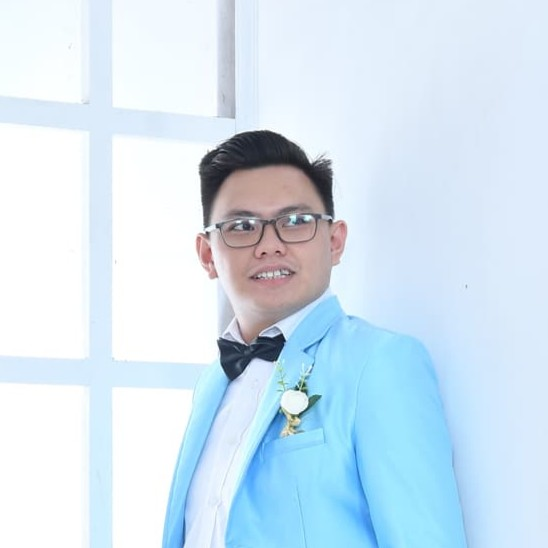
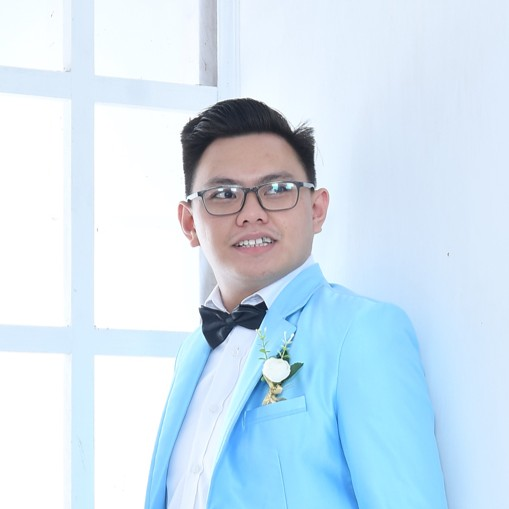
update

Changed region(s): [[0.0, 0.0295, 0.9136, 1.0], [0.1768, 0.0589, 0.2063, 0.1473], [0.3831, 0.943, 0.4126, 1.0]]

diff --git a/index.html b/index.html
@@ -30,7 +30,7 @@
 <body>
 
   <section id="hero"
-    class="hero w-100 h-100 p-3 mx-auto text-center d-flex justify-content-center align-items-center text-black">
+    class="hero w-100 h-100 p-3 mx-auto text-center d-flex justify-content-center align-items-center text-white">
     <main>
       <h4>To <span>Mr./Mrs./Brother/Sister, </span></h4>
       <h1>Geo & Glay</h1>
@@ -380,7 +380,7 @@
     <div class="container">
       <div class="row">
         <div class="col text-center">
-          <small class="block">&copy; 2023 Giiro Wedding Organize. All Rights Reserved.</small>
+
           <small class="block">Design by <a href="https://instagram.com/geovannybolang">@geovannybolang</a>.</small>
 
           <ul class="mt-3">

diff --git a/style.css b/style.css
@@ -33,7 +33,6 @@ body {
 .hero h4,
 .hero p {
   text-shadow: var(--shadow);
-  background-color: ;
 }
 
 .hero h1 {
@@ -493,4 +492,10 @@ footer li {
   .timeline li .timeline-panel::after {
     top: 31px;
   }
+}
+
+.text-outline {
+  color: white;
+  text-shadow: 1px 1px 2px black;
+  -webkit-text-stroke: 0.5px black;
 }

diff --git a/countdown/simplyCountdown.theme.default.css b/countdown/simplyCountdown.theme.default.css
@@ -6,7 +6,7 @@
 .simply-countdown > .simply-section {
   width: 50px;
   height: 50px;
-  padding: 80px;
+  padding: 60px;
   display: flex;
   align-items: center;
   justify-content: center;
